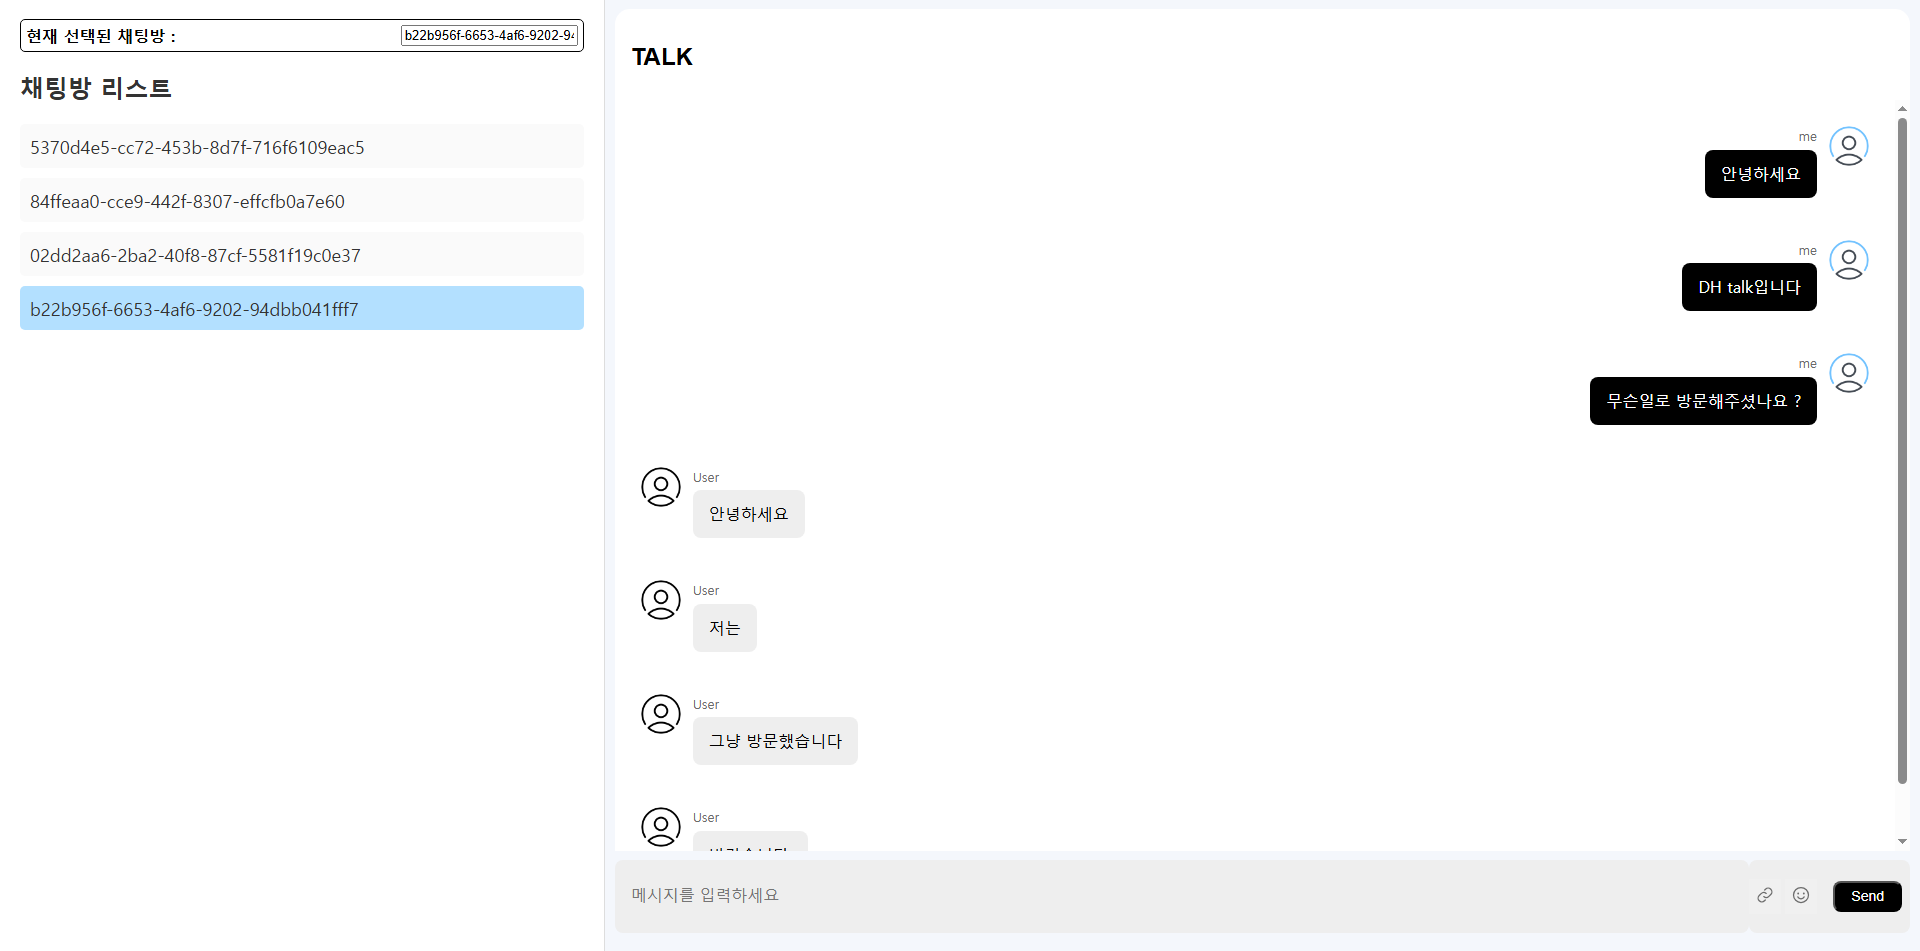
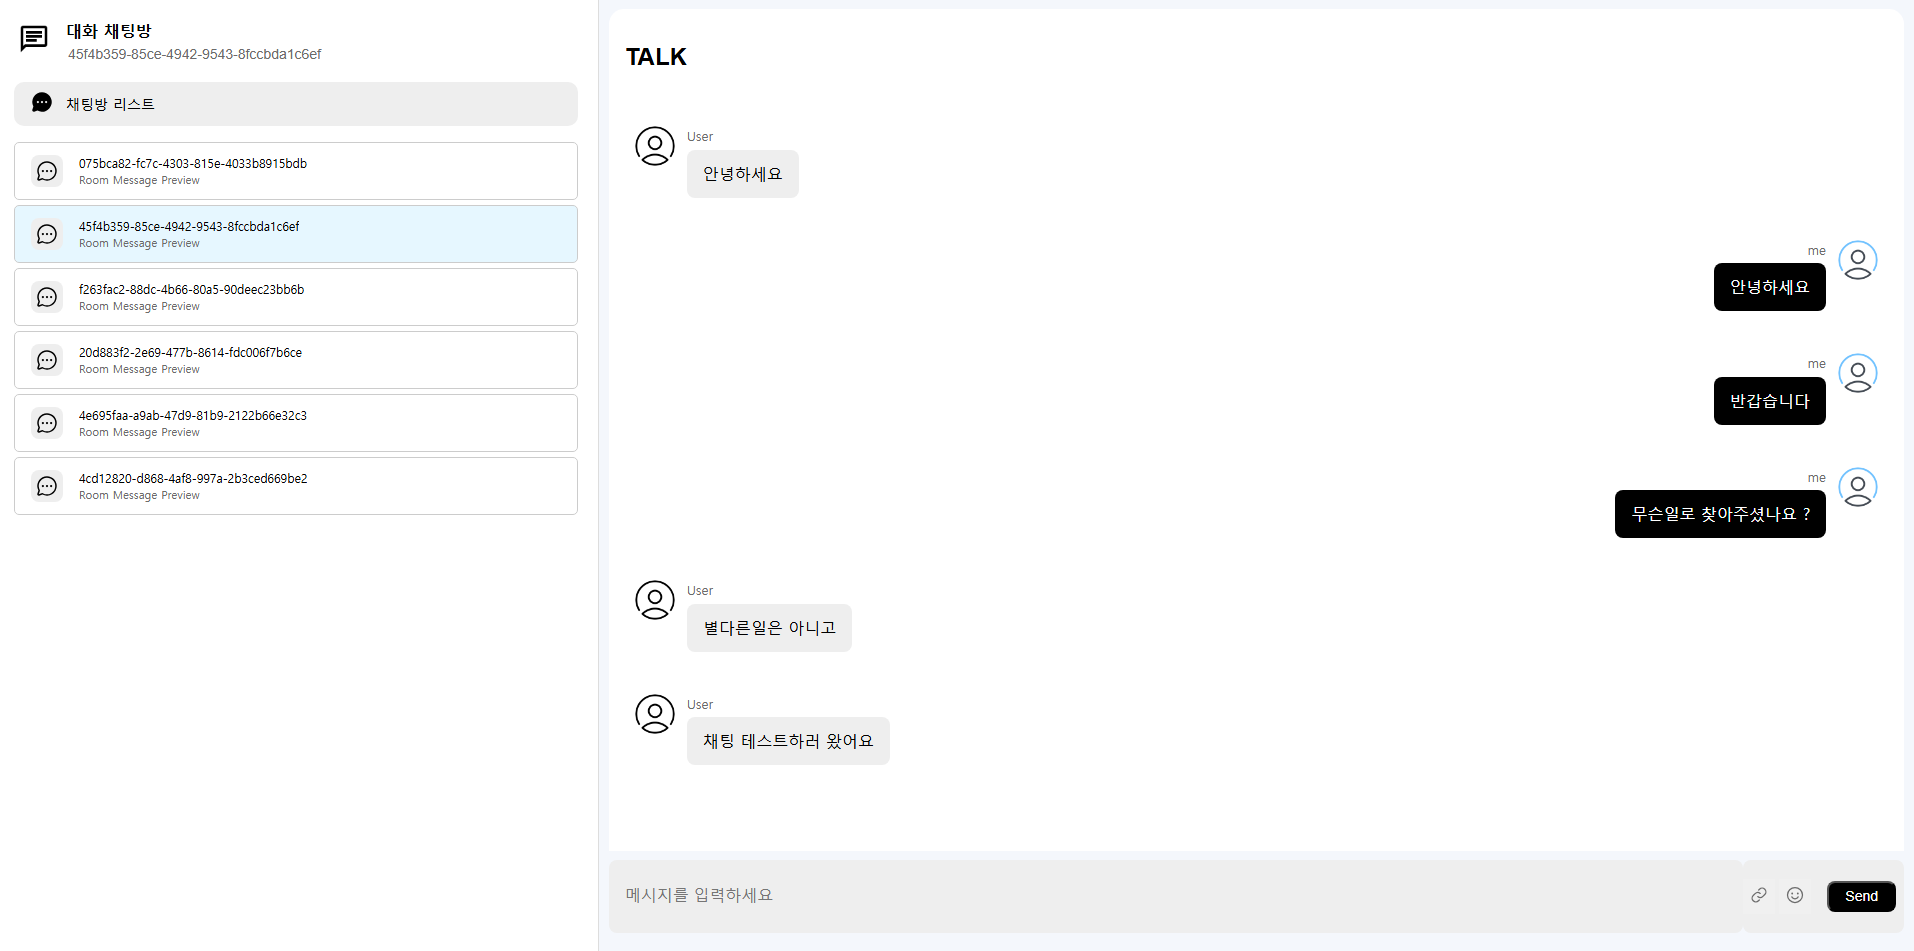
[DHTALK] * 1.0.2 * 채팅창 대시보드 CSS 수정

diff --git a/src/main/resources/static/css/chat-dashboard.css b/src/main/resources/static/css/chat-dashboard.css
@@ -44,8 +44,10 @@ input:focus {
 }
 
 .chat-dashboard-container .dashboard-left ul {
-    list-style-type: none; /* 기본 리스트 스타일 없애기 */
+    list-style-type: none;
     padding: 0;
+    height: calc(100% - 179px);
+    overflow: auto;
 }
 
 .chat-dashboard-container .dashboard-left li {
@@ -81,4 +83,126 @@ input:focus {
 .chat-dashboard-container .dashboard-right .chat-section{
     height:calc(100% - 20px);
     padding: 10px;
+}
+
+.chat-dashboard-container .room-list {
+    padding: 0.5rem 1rem 0.5rem 1rem;
+    background-color: rgb(255 255 255);
+    gap: 1rem;
+    display: flex;
+    align-items: center;
+    min-height: 40px;
+    cursor: pointer;
+    border-radius: 5px;
+    border: 1px solid #cccccc;
+    margin-bottom: 5px;
+}
+
+.chat-dashboard-container .room-list:hover {
+    background-color: #b3e0ff !important;
+}
+
+.chat-dashboard-container .room-list.active{
+    background-color: #e6f7ff;
+}
+
+.chat-dashboard-container .room-list .room-list-icon{
+    border-radius: 0.5rem;
+    color: rgb(0 0 0);
+    background-color: rgb(238 238 238);
+    justify-content: center;
+    align-items: center;
+    flex-shrink: 0;
+    width: 2rem;
+    height: 2rem;
+    display: flex;
+}
+
+.chat-dashboard-container .room-list .room-list-info{
+    display: flex;
+    justify-content: center;
+    flex-direction: column;
+}
+
+.chat-dashboard-container .room-list .room-list-info .room-key{
+    line-height: 1.5;
+    font-weight: 500;
+    font-size: 0.75rem;
+    color: rgb(0 0 0);
+    margin: 0;
+    display: -webkit-box;
+    overflow: hidden;
+    -webkit-box-orient: vertical;
+    -webkit-line-clamp: 1;
+}
+
+.chat-dashboard-container .room-list .room-list-info .room-message{
+    margin: 0;
+    font-size: 0.7rem;
+    line-height: 1.5;
+    font-weight: 400;
+    color: rgb(107 107 107);
+}
+
+.chat-dashboard-container .room-list-title-section {
+    display: flex;
+    flex-direction: column;
+    gap: 0.5rem;
+    margin-top: 1em;
+    min-height: 44px;
+}
+
+.chat-dashboard-container .room-list-title-section .room-list-title {
+    padding: 0.5rem 1rem;
+    gap: 0.75rem;
+    display: flex;
+    align-items: center;
+    background-color: rgb(238 238 238);
+    border-radius: 10px;
+}
+
+.chat-dashboard-container .room-list-title-section .room-list-title .title-text {
+    line-height: 1.5;
+    font-weight: 500;
+    font-size: 0.875rem;
+    margin: 0;
+}
+
+.chat-dashboard-container .selected-room-section {
+    display: flex;
+    gap: 0.75rem;
+    min-height: 47px;
+}
+
+.chat-dashboard-container .selected-room-section .selected-room-icon{
+    background-image: url(../image/chat_room.png);
+    background-repeat: no-repeat;
+    background-position: center;
+    background-size: 80%;
+    border-radius: 9999px;
+    width: 2.5rem;
+    height: 2.5rem;
+    aspect-ratio: 1 / 1;
+}
+
+.chat-dashboard-container .selected-room-section .selected-room-text-section{
+    display: flex;
+    flex-direction: column;
+    width: 100%;
+}
+
+.chat-dashboard-container .selected-room-section .selected-room-text-section .selected-room-title{
+    line-height: 1.5;
+    font-weight: bold;
+    font-size: 1rem;
+    margin: 0;
+}
+
+.chat-dashboard-container .selected-room-section .selected-room-text-section .selected-room-key{
+    color: rgb(107 107 107);
+    line-height: 1.5;
+    font-weight: 400;
+    font-size: 0.875rem;
+    margin: 0;
+    border: none;
 }

diff --git a/src/main/resources/templates/chat/chat-dashboard.html b/src/main/resources/templates/chat/chat-dashboard.html
@@ -11,12 +11,37 @@
 <div class="chat-dashboard-container">
     <!-- 왼쪽: 채팅방 리스트 -->
     <div class="dashboard-left">
-        <div class="selected-room-notice">
-            <span>현재 선택된 채팅방 : </span>
-            <input type="text" id="selected-chat-room" readonly>
+        <div class="selected-room-section">
+            <div class="selected-room-icon"></div>
+            <div class="selected-room-text-section">
+                <h1 class="selected-room-title">대화 채팅방</h1>
+                <input type="text" class="selected-room-key" id="selected-chat-room" readonly />
+            </div>
         </div>
-        <h2>채팅방 리스트</h2>
+
+        <div class="room-list-title-section">
+            <div class="room-list-title">
+                <div class="text-black" data-icon="ChatCircleDots" data-size="24px" data-weight="fill">
+                    <svg xmlns="http://www.w3.org/2000/svg" width="24px" height="24px" fill="currentColor" viewBox="0 0 256 256">
+                        <path d="M128,24A104,104,0,0,0,36.18,176.88L24.83,210.93a16,16,0,0,0,20.24,20.24l34.05-11.35A104,104,0,1,0,128,24ZM84,140a12,12,0,1,1,12-12A12,12,0,0,1,84,140Zm44,0a12,12,0,1,1,12-12A12,12,0,0,1,128,140Zm44,0a12,12,0,1,1,12-12A12,12,0,0,1,172,140Z"></path>
+                    </svg>
+                </div>
+                <p class="title-text">채팅방 리스트</p>
+            </div>
+        </div>
+
         <ul id="room-list-section">
+            <div class="room-list">
+                <div class="room-list-icon" data-icon="ChatCircleDots" data-size="24px" data-weight="regular">
+                    <svg xmlns="http://www.w3.org/2000/svg" width="24px" height="24px" fill="currentColor" viewBox="0 0 256 256">
+                        <path d="M140,128a12,12,0,1,1-12-12A12,12,0,0,1,140,128ZM84,116a12,12,0,1,0,12,12A12,12,0,0,0,84,116Zm88,0a12,12,0,1,0,12,12A12,12,0,0,0,172,116Zm60,12A104,104,0,0,1,79.12,219.82L45.07,231.17a16,16,0,0,1-20.24-20.24l11.35-34.05A104,104,0,1,1,232,128Zm-16,0A88,88,0,1,0,51.81,172.06a8,8,0,0,1,.66,6.54L40,216,77.4,203.53a7.85,7.85,0,0,1,2.53-.42,8,8,0,0,1,4,1.08A88,88,0,0,0,216,128Z"></path>
+                    </svg>
+                </div>
+                <div class="room-list-info">
+                    <p class="room-key">131bae87-3caa-4c39-b3c4-8cc9e2725d34</p>
+                    <p class="room-message">Selected chat room</p>
+                </div>
+            </div>
             <li>
                 <span>채팅방 이름</span>
             </li>

diff --git a/src/main/resources/static/js/chat-dashboard.js b/src/main/resources/static/js/chat-dashboard.js
@@ -32,9 +32,17 @@ function makeRoomList(rooms){
 
     rooms.forEach(function(room){
         let active = document.getElementById("selected-chat-room").value === room.roomId ? "active" : "";
-        roomHtml += `<li class="room-list ${active}" data-key="${room.roomId}" onclick="chatRoomSelected('${room.roomId}')">
-                        <span>${room.roomId}</span>
-                    </li>`;
+        roomHtml += `<div class="room-list ${active}" data-key="${room.roomId}" onclick="chatRoomSelected('${room.roomId}')">
+                        <div class="room-list-icon" data-icon="ChatCircleDots" data-size="24px" data-weight="regular">
+                            <svg xmlns="http://www.w3.org/2000/svg" width="24px" height="24px" fill="currentColor" viewBox="0 0 256 256">
+                                <path d="M140,128a12,12,0,1,1-12-12A12,12,0,0,1,140,128ZM84,116a12,12,0,1,0,12,12A12,12,0,0,0,84,116Zm88,0a12,12,0,1,0,12,12A12,12,0,0,0,172,116Zm60,12A104,104,0,0,1,79.12,219.82L45.07,231.17a16,16,0,0,1-20.24-20.24l11.35-34.05A104,104,0,1,1,232,128Zm-16,0A88,88,0,1,0,51.81,172.06a8,8,0,0,1,.66,6.54L40,216,77.4,203.53a7.85,7.85,0,0,1,2.53-.42,8,8,0,0,1,4,1.08A88,88,0,0,0,216,128Z"></path>
+                            </svg>
+                        </div>
+                        <div class="room-list-info">
+                            <p class="room-key">${room.roomId}</p>
+                            <p class="room-message">Room Message Preview</p>
+                        </div>
+                    </div>`;
     });
 
     roomListSection.innerHTML = roomHtml;
